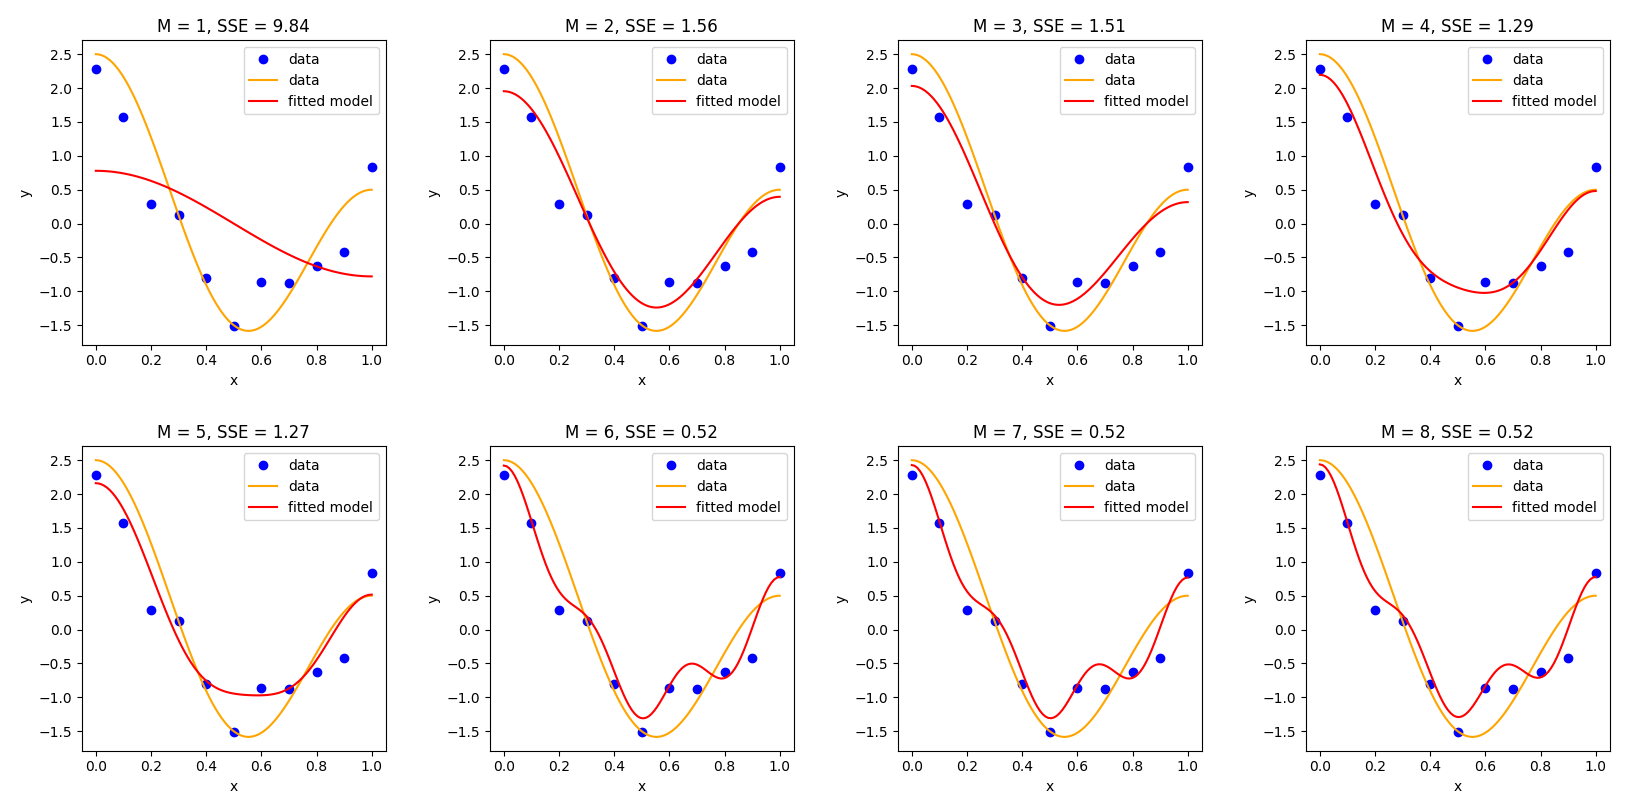
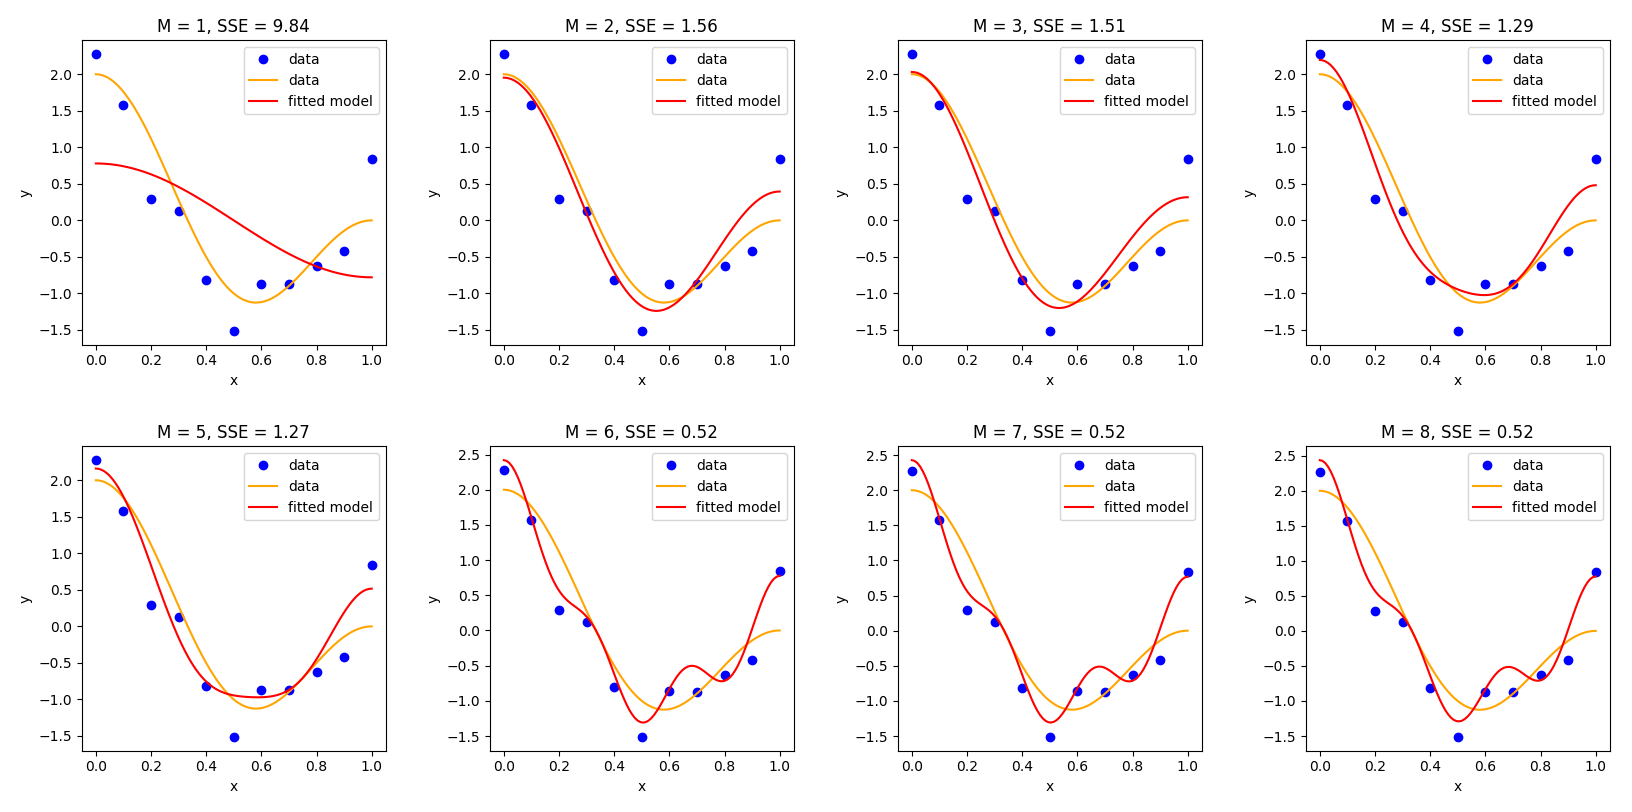
Update true model since there was a typo in the HW prompt

diff --git a/hw1/P2/fit_poly.py b/hw1/P2/fit_poly.py
@@ -19,7 +19,7 @@ def fit_polynomial(X, Y, M, out_png=None):
         plt.plot(X,np.array(Y),'o',color='blue', label='data')
 
         xp = np.linspace(0, 1, 100)
-        y_model = np.cos(np.pi*xp) + 1.5*np.cos(2*np.pi*xp)
+        y_model = np.cos(np.pi*xp) + np.cos(2*np.pi*xp)
         plt.plot(xp, y_model, color='orange', label='true model')
 
         y_regress = np.dot(gradient_descent.polynomial_design_matrix(xp,M), weights.reshape((nparams,1)))
@@ -38,11 +38,12 @@ def main():
     X, Y = getData(False)
     ndata = len(X)
     for M in (0,1,2,3,4,6,8,10):
-        print 'M=%i' % M
+        #print 'M=%i' % M
         weights = fit_polynomial(X,Y,M,'regress_m_%i.png' % M)
-        print weights
-        print 'SSE = {}'.format(gradient_descent.least_squares_objective(weights, gradient_descent.polynomial_design_matrix(X, M), Y.reshape((ndata,1))))
-        print 'SSE derivative = {}'.format(gradient_descent.least_squares_gradient(weights, gradient_descent.polynomial_design_matrix(X, M), Y.reshape((ndata,1))))
+        #print weights
+        #print 'SSE = {}'.format(gradient_descent.least_squares_objective(weights, gradient_descent.polynomial_design_matrix(X, M), Y.reshape((ndata,1))))
+        #print 'SSE derivative = {}'.format(gradient_descent.least_squares_gradient(weights, gradient_descent.polynomial_design_matrix(X, M), Y.reshape((ndata,1))))
 
+        print 'M=%i & ' % M, 'w = ', [round(w,3) for w in weights[:,0]], '\\\\'
 if __name__ == '__main__':
     main()

diff --git a/hw1/P2/fit_cos.py b/hw1/P2/fit_cos.py
@@ -38,7 +38,7 @@ def fit_cosines(X, Y, M, out_png=None):
         plt.plot(X,np.array(Y),'o',color='blue', label='data')
 
         xp = np.linspace(0, 1, 100)
-        y_model = np.cos(np.pi*xp) + 1.5*np.cos(2*np.pi*xp)
+        y_model = np.cos(np.pi*xp) + np.cos(2*np.pi*xp)
         plt.plot(xp, y_model, color='orange', label='data')
 
         y_regress = np.dot(cosine_design_matrix(xp,M), weights.reshape((nparams,1)))
@@ -57,11 +57,10 @@ def main():
     X, Y = getData(False)
     ndata = len(X)
     for M in (1,2,3,4,5,6,7,8):
-        print 'M=%i' % M
         weights = fit_cosines(X,Y,M,'regress_cos_m_%i.png' % M)
-        print weights
-        print 'SSE = {}'.format(gradient_descent.least_squares_objective(weights, cosine_design_matrix(X, M), Y.reshape((ndata,1))))
-        print 'SSE derivative = {}'.format(gradient_descent.least_squares_gradient(weights, cosine_design_matrix(X, M), Y.reshape((ndata,1))))
+        print 'M=%i & ' % M, 'w = ', [round(w,3) for w in weights[:,0]], '\\\\'
+        #print 'SSE = {}'.format(gradient_descent.least_squares_objective(weights, cosine_design_matrix(X, M), Y.reshape((ndata,1))))
+        #print 'SSE derivative = {}'.format(gradient_descent.least_squares_gradient(weights, cosine_design_matrix(X, M), Y.reshape((ndata,1))))
 
 
 if __name__ == '__main__':
